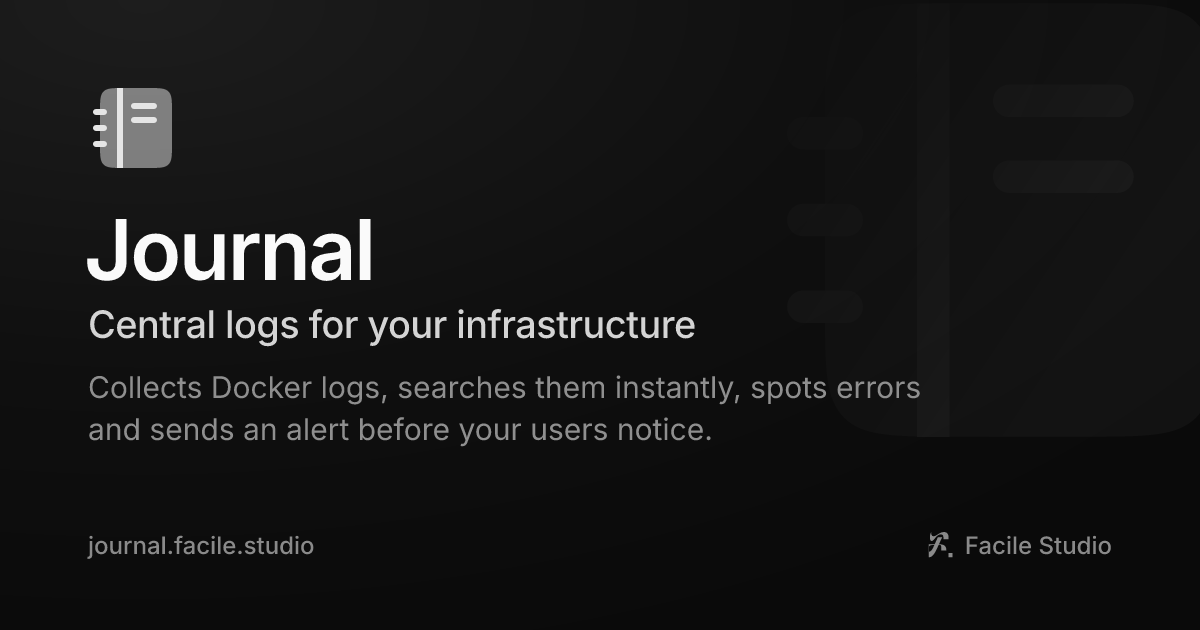
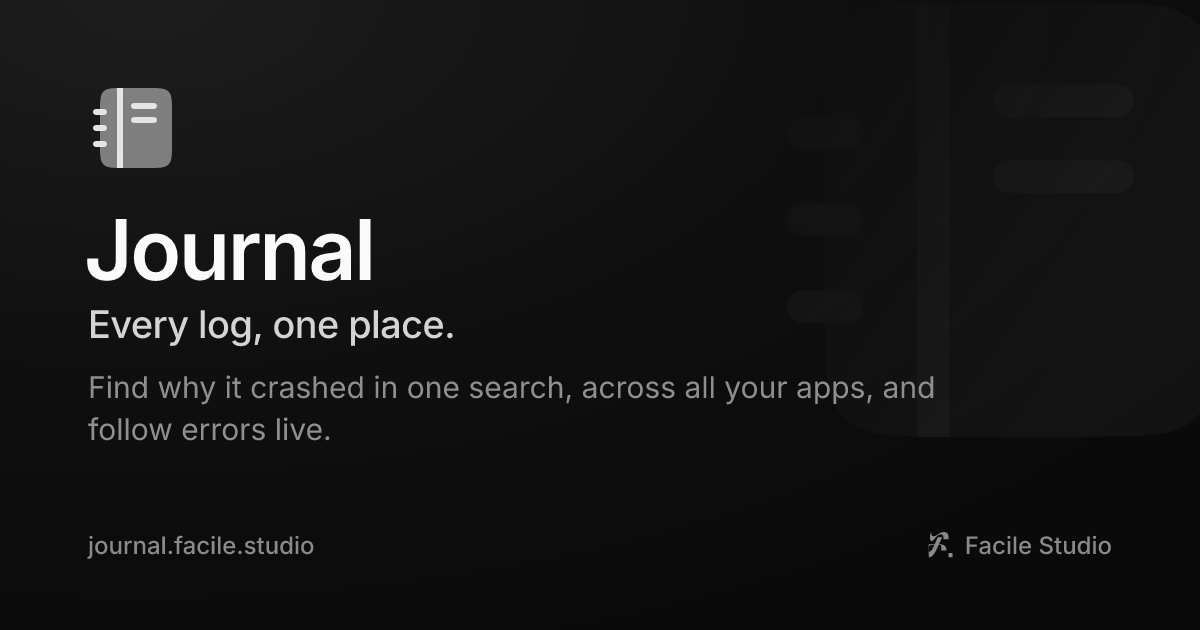
🐛 fix(client): localize the meta description and refresh the link preview

Changed region(s): [[0.0617, 0.4825, 0.5858, 0.5429], [0.0617, 0.6635, 0.5858, 0.7238], [0.0617, 0.6032, 0.8017, 0.6333]]

diff --git a/apps/client/src/app.html b/apps/client/src/app.html
@@ -14,7 +14,7 @@
 			})();
 		</script>
 
-		<title>Journal · Every log, one place</title>
+		<title>Journal · Every log, one place.</title>
 		<meta name="description" content="Find why it crashed in one search, across all your apps, and follow errors live." />
 		<link rel="icon" href="/favicon.svg" type="image/svg+xml" />
 		<link rel="icon" href="/favicon.ico" sizes="48x48" />
@@ -26,14 +26,14 @@
 		<meta property="og:site_name" content="Facile" />
 		<meta property="og:locale" content="en_US" />
 		<meta property="og:url" content="https://journal.facile.studio/" />
-		<meta property="og:title" content="Journal · Every log, one place" />
+		<meta property="og:title" content="Journal · Every log, one place." />
 		<meta property="og:description" content="Find why it crashed in one search, across all your apps, and follow errors live." />
 		<meta property="og:image" content="https://journal.facile.studio/og-image.png" />
 		<meta property="og:image:width" content="1200" />
 		<meta property="og:image:height" content="630" />
-		<meta property="og:image:alt" content="Journal: every log, one place" />
+		<meta property="og:image:alt" content="Journal: Every log, one place." />
 		<meta name="twitter:card" content="summary_large_image" />
-		<meta name="twitter:title" content="Journal · Every log, one place" />
+		<meta name="twitter:title" content="Journal · Every log, one place." />
 		<meta name="twitter:description" content="Find why it crashed in one search, across all your apps, and follow errors live." />
 		<meta name="twitter:image" content="https://journal.facile.studio/og-image.png" />
 

diff --git a/apps/client/src/lib/components/landing/Landing.svelte b/apps/client/src/lib/components/landing/Landing.svelte
@@ -9,6 +9,7 @@
 		SignInWithFacile,
 		TextElevate,
 		WorksWith,
+		getI18n,
 		icons,
 		type DeveloperRow,
 		type FeatureItem,
@@ -24,6 +25,11 @@
 	import StackTile from './StackTile.svelte';
 
 	const t = useT();
+	const i18n = getI18n();
+
+	$effect(() => {
+		document.querySelector('meta[name="description"]')?.setAttribute('content', t(OPEN_TO_NEW_ACCOUNTS ? 'landing.meta' : 'landing.metaSoon'));
+	});
 
 	const REPO = 'https://github.com/FacileStudio/Journal';
 	const width = 'mx-auto w-full max-w-5xl px-4 sm:px-6';
@@ -129,7 +135,7 @@
 		/>
 
 		<div id="developers" class="{width} scroll-mt-20 py-12">
-			<ForDevelopers rows={developers} description={t('landing.dev.line')} selfHostHref="https://suite.facile.studio/auto-hebergement" />
+			<ForDevelopers rows={developers} description={t('landing.dev.line')} selfHostHref={`https://suite.facile.studio/${i18n.locale === 'fr' ? '' : `${i18n.locale}/`}auto-hebergement`} />
 		</div>
 
 		<section class="mx-auto max-w-5xl px-4 py-20 text-center sm:px-6">

diff --git a/apps/client/src/lib/i18n/rows.landing.ts b/apps/client/src/lib/i18n/rows.landing.ts
@@ -13,6 +13,12 @@ export const landing = {
 		'Encuentra la causa de un fallo con una búsqueda, en todas tus apps, y sigue los errores en directo. Gratis para empezar.',
 		'Finden Sie die Ursache eines Absturzes mit einer Suche, über alle Apps, und verfolgen Sie Fehler live. Kostenlos starten.'
 	],
+	'landing.metaSoon': [
+		'Find why it crashed in one search, across all your apps, and follow errors live.',
+		'Retrouvez la cause d’un plantage en une recherche, sur toutes vos apps, et suivez les erreurs en direct.',
+		'Encuentra la causa de un fallo con una búsqueda, en todas tus apps, y sigue los errores en directo.',
+		'Finden Sie die Ursache eines Absturzes mit einer Suche, über alle Apps, und verfolgen Sie Fehler live.'
+	],
 	'landing.nav.features': ['Features', 'Fonctions', 'Funciones', 'Funktionen'],
 	'landing.nav.pricing': ['Pricing', 'Offres', 'Planes', 'Tarife'],
 	'landing.nav.developers': ['Developers', 'Développeurs', 'Desarrolladores', 'Entwickler'],
